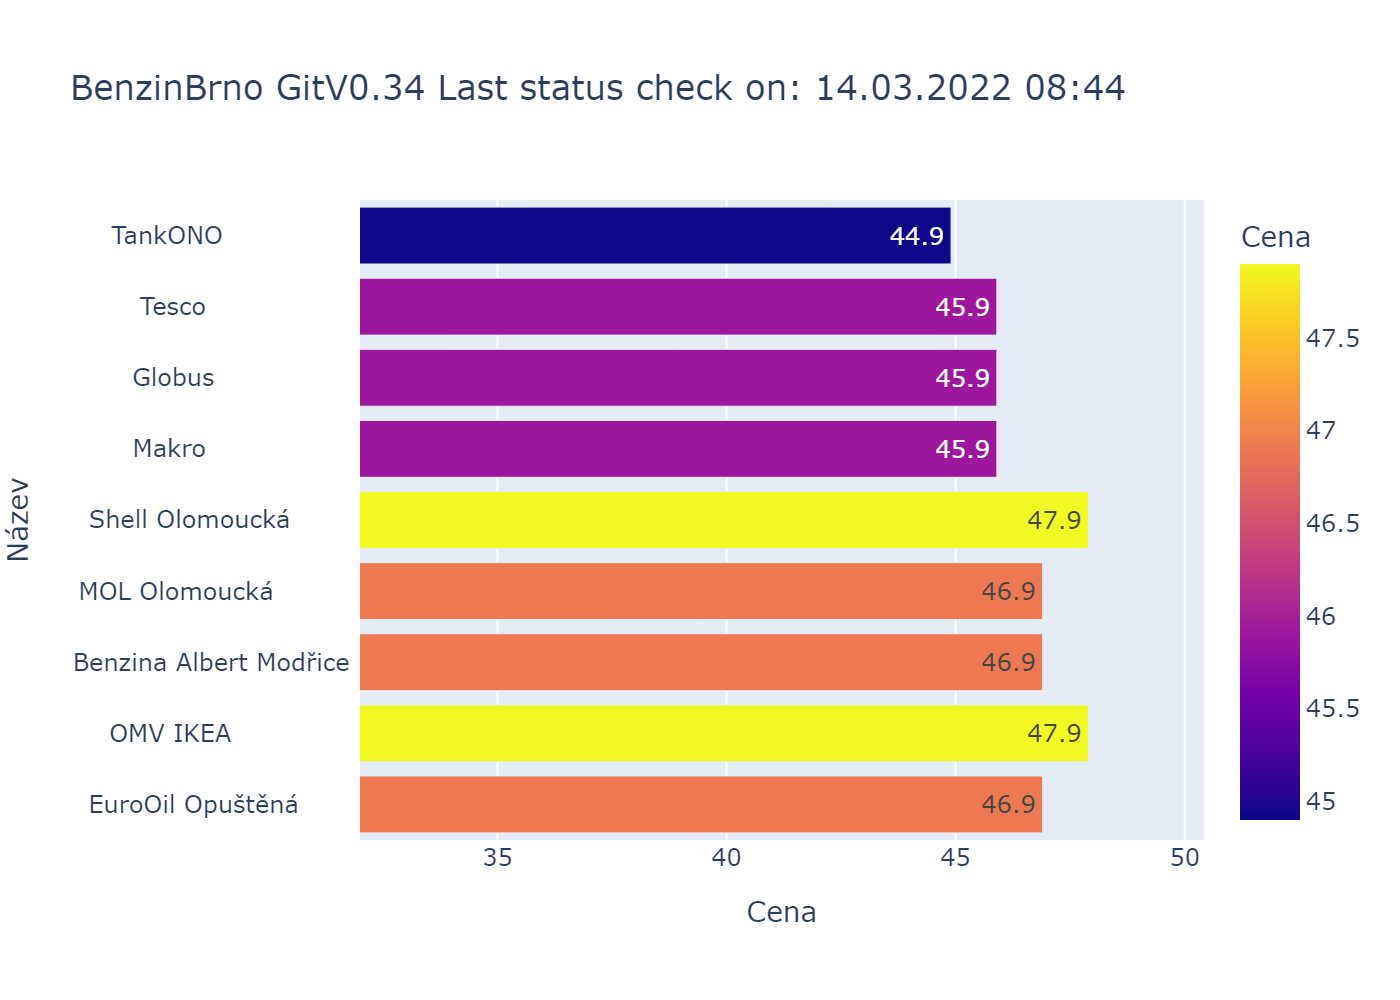
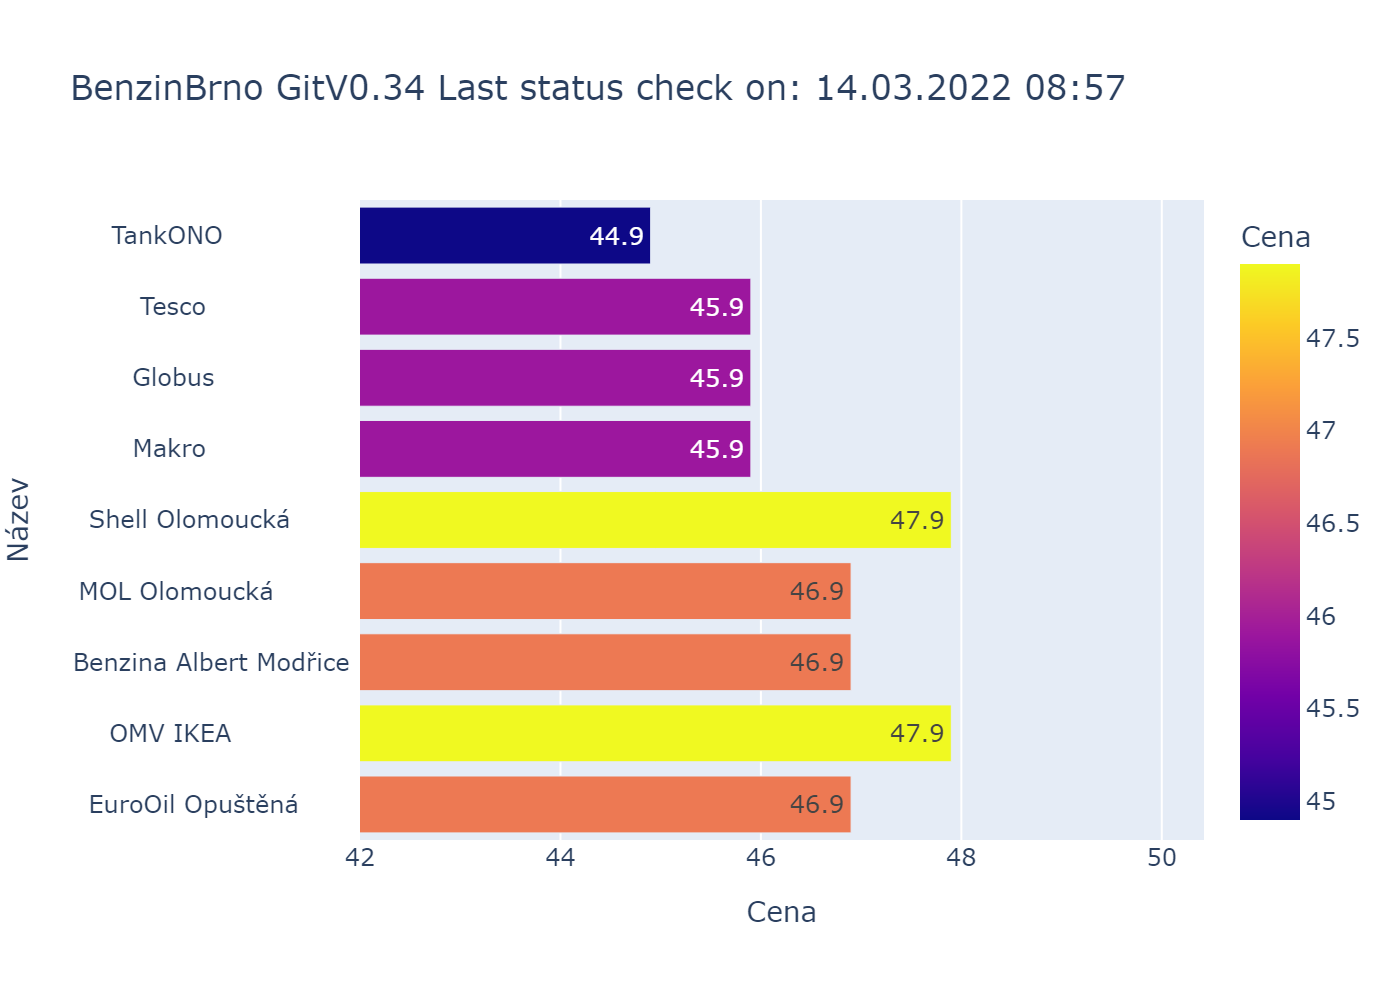
bbCenaMin

diff --git a/bbGraf2.py b/bbGraf2.py
@@ -2,7 +2,7 @@
 
 # ulozi graf do .\img\ceny.png
 def Graf():
-  from bbCFG import bbXlsFlNm, bbXlsShNm, bbPngFlNm, bbNmVE, bbNmBB
+  from bbCFG import bbXlsFlNm, bbXlsShNm, bbPngFlNm, bbNmVE, bbNmBB, bbCenaMin
   from bbLST import bbHLAVICKA, bbBenzinky, bbHlavCena, bbHlavNazv, bbHlavDate, bbHlavaUrl
   import pandas as pd
   import plotly.express as px
@@ -32,7 +32,7 @@ def Graf():
   # print('full', full_fig.layout.xaxis.range, type(full_fig.layout.xaxis.range))
   xlim = list(full_fig.layout.xaxis.range)
   # min hodnota
-  xlim[0] = 32
+  xlim[0] = bbCenaMin
   # print('xlim', xlim, type(xlim))
   # https://plotly.com/python/reference/layout/xaxis/
   # fig.update_xaxes(range=[32, 40])

diff --git a/bbWeb.py b/bbWeb.py
@@ -2,7 +2,7 @@
 #
 # streamlit run bbWeb.py
 
-from bbCFG import bbName, bbNmBB, bbNmVE, bbNmDE, bbXlsFlNm, bbXlsShNm
+from bbCFG import bbName, bbNmBB, bbNmVE, bbNmDE, bbXlsFlNm, bbXlsShNm, bbCenaMin
 from bbLST import bbHLAVICKA, bbBenzinky, bbHlavCena, bbHlavNazv, bbHlavDate, bbHlavaUrl
 
 import pandas as pd
@@ -69,7 +69,7 @@ full_fig = bar_chart.full_figure_for_development(warn=False)
 # print('full', full_fig.layout.xaxis.range, type(full_fig.layout.xaxis.range))
 xlim = list(full_fig.layout.xaxis.range)
 # min hodnota
-xlim[0] = 32
+xlim[0] = bbCenaMin
 # print('xlim', xlim, type(xlim))
 # https://plotly.com/python/reference/layout/xaxis/
 # bar_chart.update_xaxes(range=[32, 40])

diff --git a/bbCFG.py b/bbCFG.py
@@ -30,6 +30,8 @@ bbDateDMY = "%d.%m.%Y %H:%M"  # format casu
 bbDateLog = "%d.%m.%Y--%H:%M"  # format casu
 # Formatovani Ceny (float) - Cena = '{:.2f}'.format(item)
 bbCenaMsk = '{:.2f}'  # format na 2 desetinna mista
+# Graf
+bbCenaMin = 42  # mdolni mez ceny na ose X v grafu
 
 # bbPrintDebug
 # bbPrintDebug('Loc:', 'FceName','Var', Var )
